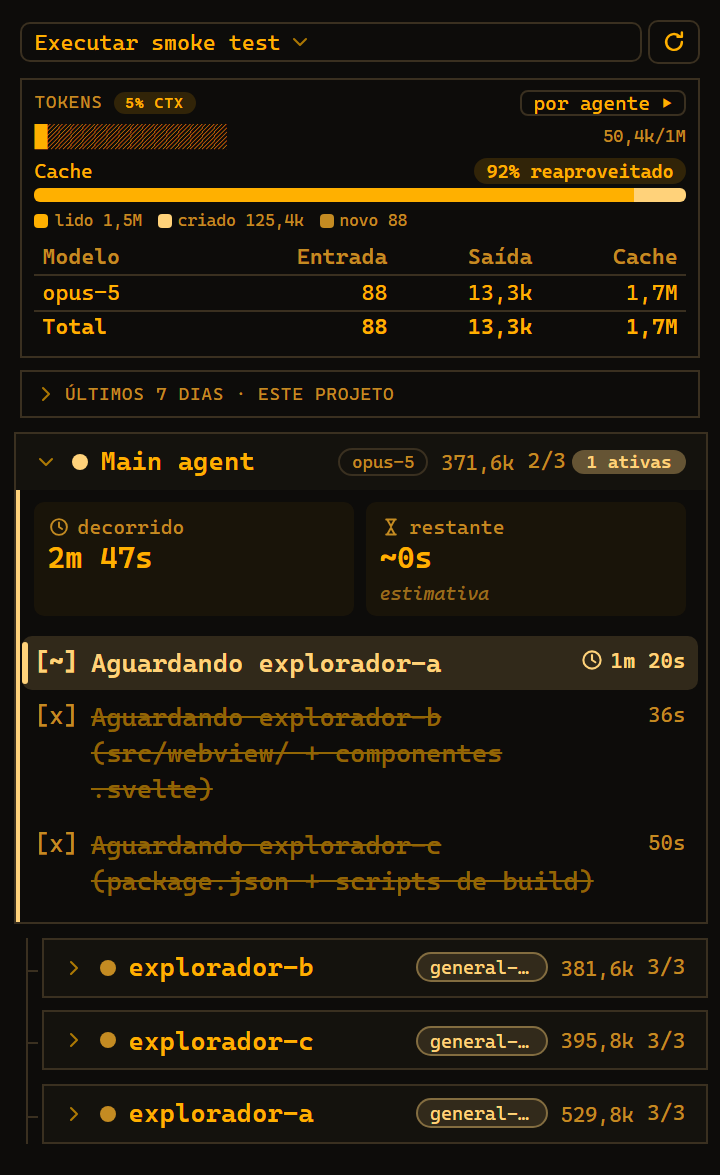
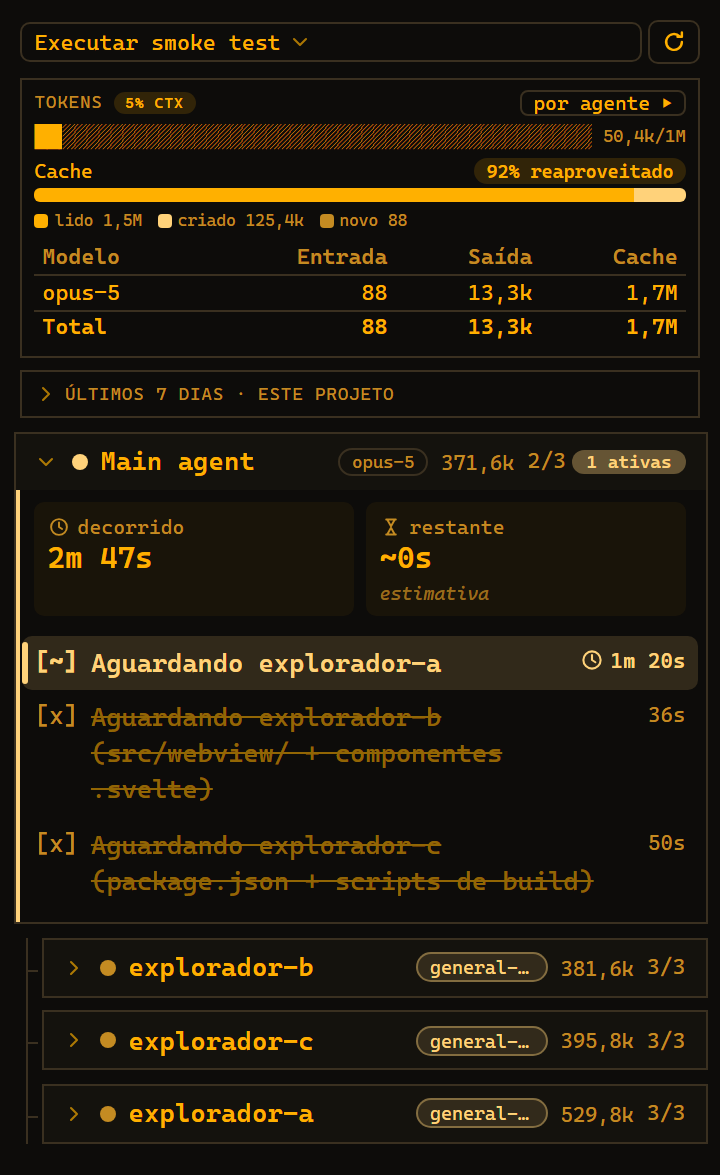
fix: correcoes da revisao da fase 2 dos temas
Clique no anel rola depois do card abrir, para as tarefas nao ficarem fora da tela. No Painel, as barras de uso passam a usar o azul forte e o selo o azul vivo, e o verde fica para sucesso. Sem textLink, o Painel cai em charts-blue: o focusBorder do JetBrains dava 1,64:1 no Darcula e no IntelliJ Light. A barra ASCII usa largura em porcentagem, porque cortada pelo painel estreito 42% e 93% pareciam iguais.

scripts/themeShots/checks.mts trava os tres casos de navegador no --compare. Baselines regravados: painel live, full e project; terminal live, full, alert e project. Classico e Papel nao mudam.

Changed region(s): [[0.0611, 0.0919, 0.825, 0.1532]]

diff --git a/src/webview/lib/Meter.svelte b/src/webview/lib/Meter.svelte
@@ -1,14 +1,20 @@
 <script lang="ts">
-  import { asciiBar, type ContextLevel } from '../format';
+  import type { ContextLevel } from '../format';
   import { todosStore } from '../stores.svelte';
 
   // percent em 0..100; level e o que contextLevel() devolveu.
   let { percent, level }: { percent: number; level: ContextLevel } = $props();
   let width = $derived(Math.min(100, Math.max(0, Math.round(percent))));
+
+  // Mais caracteres do que cabem em qualquer painel: a largura da parte cheia e em
+  // porcentagem e o resto e cortado. Um numero fixo de caracteres cortado pelo painel
+  // estreito comeria so a parte vazia, e 42% e 93% pareceriam iguais.
+  const FILLED = '█'.repeat(400);
+  const EMPTY = '░'.repeat(400);
 </script>
 
 {#if todosStore.traits.meter === 'ascii'}
-  <span class="ascii {level}" aria-hidden="true">{asciiBar(percent / 100, 16)}</span>
+  <span class="ascii {level}" aria-hidden="true"><span class="on" style="width: {width}%">{FILLED}</span><span class="off">{EMPTY}</span></span>
 {:else}
   <div class="ctx-bar" aria-hidden="true"><div class="ctx-fill {level}" style="width: {width}%"></div></div>
 {/if}
@@ -22,11 +28,13 @@
     overflow: hidden;
   }
   .ctx-fill { height: 100%; transition: width 200ms ease; }
-  .ctx-fill.ok { background: var(--ct-ok); }
+  .ctx-fill.ok { background: var(--ct-meter-ok); }
   .ctx-fill.warn { background: var(--ct-warn); }
   .ctx-fill.danger { background: var(--ct-danger); }
-  .ascii { font-family: var(--ct-mono); letter-spacing: -0.5px; white-space: pre; flex: 1; min-width: 0; overflow: hidden; }
-  .ascii.ok { color: var(--ct-ok); }
+  .ascii { display: flex; flex: 1; min-width: 0; overflow: hidden; font-family: var(--ct-mono); letter-spacing: -0.5px; white-space: pre; }
+  .on { flex: none; overflow: hidden; }
+  .off { flex: 1; min-width: 0; overflow: hidden; }
+  .ascii.ok { color: var(--ct-meter-ok-text); }
   .ascii.warn { color: var(--ct-warn); }
   .ascii.danger { color: var(--ct-danger); }
 </style>

diff --git a/src/webview/themes/painel.css b/src/webview/themes/painel.css
@@ -2,19 +2,22 @@
    qualquer tema do editor, em light e dark.
    - azul vivo em texto (--vscode-textLink-foreground) = o que esta rodando agora.
      --ct-run tambem pinta texto (TodoItem), e o focusBorder de alguns temas nao
-     foi feito para isso; ele fica so de reserva (o ThemeShim nao define textLink).
+     foi feito para isso. O ThemeShim nao define textLink, e o focusBorder dele e a
+     cor de foco do IDE: a reserva e charts-blue, a mesma do --ct-run do Classico.
    - azul vivo em borda e tinta de fundo (--vscode-focusBorder)
    - azul forte (--vscode-button-background) = consumo / preenchimentos
    - verde/laranja/vermelho ficam reservados a sucesso/alerta/erro. */
 :root[data-ct-theme="painel"] {
-  --ct-run: var(--vscode-textLink-foreground, var(--vscode-focusBorder));
-  --ct-link: var(--vscode-textLink-foreground, var(--vscode-focusBorder));
-  --ct-tone-explore: var(--vscode-textLink-foreground, var(--vscode-focusBorder));
-  --ct-tone-plan: var(--vscode-textLink-foreground, var(--vscode-focusBorder));
-  --ct-tone-general: var(--vscode-textLink-foreground, var(--vscode-focusBorder));
+  --ct-run: var(--vscode-textLink-foreground, var(--vscode-charts-blue));
+  --ct-link: var(--vscode-textLink-foreground, var(--vscode-charts-blue));
+  --ct-tone-explore: var(--vscode-textLink-foreground, var(--vscode-charts-blue));
+  --ct-tone-plan: var(--vscode-textLink-foreground, var(--vscode-charts-blue));
+  --ct-tone-general: var(--vscode-textLink-foreground, var(--vscode-charts-blue));
   --ct-accent: var(--vscode-focusBorder);
   --ct-agent-active: var(--vscode-focusBorder);
   --ct-info: var(--vscode-button-background);
+  --ct-meter-ok: var(--vscode-button-background);
+  --ct-meter-ok-text: var(--ct-run);
   --ct-track: color-mix(in srgb, var(--vscode-foreground) 14%, transparent);
   --ct-header-bg: color-mix(in srgb, var(--vscode-focusBorder) 7%, transparent);
   --ct-hover: color-mix(in srgb, var(--vscode-focusBorder) 12%, transparent);

diff --git a/tests/webview/format.test.ts b/tests/webview/format.test.ts
@@ -1,5 +1,5 @@
 import { describe, it, expect } from 'vitest';
-import { formatCompact, shortModel, modelBadge, contextLevel, cacheLevel, formatDuration, summarizeTiming, completedTaskDurations, agentTotalTokens, agentTypeTone, listStaleness, pendingSummary, limitLabelKey, formatResetTime, bridgeTextKey, statusGlyph, asciiBar, ringDash } from '../../src/webview/format';
+import { formatCompact, shortModel, modelBadge, contextLevel, cacheLevel, formatDuration, summarizeTiming, completedTaskDurations, agentTotalTokens, agentTypeTone, listStaleness, pendingSummary, limitLabelKey, formatResetTime, bridgeTextKey, statusGlyph, ringDash } from '../../src/webview/format';
 import type { Todo, TodoStatus, AgentUsage, PendingQuestion } from '../../src/types';
 
 describe('ringDash', () => {
@@ -10,13 +10,6 @@ describe('ringDash', () => {
     expect(ringDash(0, 0, C)).toBe(4);
   });
   it('nunca passa do circulo', () => { expect(ringDash(5, 4, C)).toBeCloseTo(C, 3); });
-});
-
-describe('asciiBar', () => {
-  it.each([
-    [0, 10, '░░░░░░░░░░'], [1, 10, '██████████'], [0.5, 10, '█████░░░░░'],
-    [0.71, 18, '█████████████░░░░░'], [1.4, 4, '████'], [-1, 4, '░░░░'],
-  ])('asciiBar(%d, %d)', (pct, width, out) => { expect(asciiBar(pct, width)).toBe(out); });
 });
 
 describe('statusGlyph', () => {

diff --git a/src/webview/lib/AgentSection.svelte b/src/webview/lib/AgentSection.svelte
@@ -42,14 +42,24 @@
   let title = $derived(agent.name);
 
   let sectionEl = $state<HTMLElement | null>(null);
+  // Card recolhido ainda vai crescer: rolar agora mediria so o cabecalho e deixaria
+  // as tarefas fora da tela. Nesse caso a rolagem espera o fim do slide.
+  let scrollWhenOpen = false;
+  function scrollToCard(): void {
+    sectionEl?.scrollIntoView({ block: 'nearest', behavior: 'smooth' });
+  }
   // Zerar o pedido e obrigatorio: este effect roda de novo a cada snapshot,
   // porque a prop `agent` muda de identidade. Com o pedido ainda de pe, o card
   // reabriria e a tela rolaria a cada atualizacao.
   $effect(() => {
     if (todosStore.focus !== agent.agentId) return;
     todosStore.focus = null;
-    expanded = true;
-    sectionEl?.scrollIntoView({ block: 'nearest', behavior: 'smooth' });
+    if (expanded) {
+      scrollToCard();
+    } else {
+      scrollWhenOpen = true;
+      expanded = true;
+    }
   });
 </script>
 
@@ -98,7 +108,7 @@
         {/if}
       </div>
     {/if}
-    <ul class="list" transition:slide={{ duration: 180 }}>
+    <ul class="list" transition:slide={{ duration: 180 }} onintroend={() => { if (scrollWhenOpen) { scrollWhenOpen = false; scrollToCard(); } }}>
       {#each agent.todos as todo, i (i)}
         <TodoItem {todo} completedMs={durations[i]} sessionId={agent.sessionId} agentId={agent.agentId} />
       {/each}

diff --git a/tests/webview/themeTokens.test.ts b/tests/webview/themeTokens.test.ts
@@ -26,6 +26,17 @@ describe('componentes so usam tokens --ct-*', () => {
   });
 });
 
+describe('tema Painel', () => {
+  // O ThemeShim nao define textLink, e focusBorder vem do foco do IDE: no Darcula
+  // e no IntelliJ Light da 1,64:1 sobre o fundo, ilegivel para a task em andamento.
+  it('token que pinta texto nao cai em focusBorder', () => {
+    const css = fs.readFileSync(path.join(THEMES, 'painel.css'), 'utf8').replace(/\/\*[\s\S]*?\*\//g, '');
+    const textTokens = [...css.matchAll(/--(ct-(?:run|link|tone-[\w-]+))\s*:\s*([^;]+);/g)];
+    expect(textTokens.length).toBeGreaterThanOrEqual(5);
+    for (const [, name, value] of textTokens) expect(value, name).not.toContain('focusBorder');
+  });
+});
+
 describe('arquivos de tema', () => {
   it('so declaram custom properties nos seletores permitidos', () => {
     const themeFiles = fs.readdirSync(THEMES).filter((f) => f.endsWith('.css') && !['tokens.css', 'index.css'].includes(f));

diff --git a/src/webview/format.ts b/src/webview/format.ts
@@ -267,12 +267,6 @@ export function statusGlyph(status: TodoStatus): string {
   return status === 'completed' ? '[x]' : status === 'in_progress' ? '[~]' : '[ ]';
 }
 
-// Barra em texto, para temas com meter: 'ascii'. pct em 0..1.
-export function asciiBar(pct: number, width: number): string {
-  const filled = Math.round(Math.min(1, Math.max(0, pct)) * width);
-  return '█'.repeat(filled) + '░'.repeat(width - filled);
-}
-
 // Comprimento do arco do anel de progresso. Minimo de 4px: um agente sem nada
 // concluido ainda precisa de um traco que mostre onde o anel comeca.
 export function ringDash(done: number, total: number, circumference: number): number {

diff --git a/src/webview/themes/tokens.css b/src/webview/themes/tokens.css
@@ -32,6 +32,10 @@
   --ct-link: var(--vscode-textLink-foreground, var(--ct-accent));
   --ct-ok: var(--vscode-charts-green, var(--vscode-testing-iconPassed, #4caf50));
   --ct-done: var(--ct-ok);
+  /* Barra de uso em nivel normal, e o selo dela. Tema que separa consumo de sucesso
+     redefine os dois; o resto acompanha --ct-ok. */
+  --ct-meter-ok: var(--ct-ok);
+  --ct-meter-ok-text: var(--ct-ok);
   --ct-run: var(--vscode-charts-blue, var(--vscode-progressBar-background, #0e70c0));
   --ct-info: var(--vscode-charts-blue);
   --ct-warn: var(--vscode-charts-yellow);

diff --git a/src/webview/lib/UsageTable.svelte b/src/webview/lib/UsageTable.svelte
@@ -192,8 +192,8 @@
     font-weight: 600;
   }
   .ctx-badge.ok {
-    color: var(--ct-ok);
-    background: color-mix(in srgb, var(--ct-ok) 15%, transparent);
+    color: var(--ct-meter-ok-text);
+    background: color-mix(in srgb, var(--ct-meter-ok-text) 15%, transparent);
   }
   .ctx-badge.warn {
     color: var(--ct-warn);

diff --git a/docs/plans/2026-11-02-temas.md b/docs/plans/2026-11-02-temas.md
@@ -65,7 +65,8 @@
 | `src/i18n/messages.ts` | Nomes e descrições dos temas, placeholder, nota de HC, rótulos da faixa e dos medidores | 1–3 |
 | `jetbrains/.../ThemeChoice.kt` (novo) | Lista, padrão, leitura e gravação em `PropertiesComponent`; `ThemeChoiceListener` | 1 |
 | `jetbrains/.../MessageRouter.kt`, `ClaudeTodosToolWindowFactory.kt`, `NotifyMessages.kt` | `appearance` no `ready`; ação "Tema…" | 1 |
-| `src/webview/format.ts` | `statusGlyph`, `asciiBar`, `ringDash`, `todoSegments`, `usageHeadline` | 2–3 |
+| `src/webview/format.ts` | `statusGlyph`, `ringDash`, `todoSegments`, `usageHeadline` | 2–3 |
+| `scripts/themeShots/checks.mts` (novo) | Comportamento que imagem fixa não prova: clique no anel com viewport baixa, azul de consumo, barra ASCII em painel estreito. Roda no `--compare` | 2 |
 | `src/webview/lib/Meter.svelte` (novo) | Barra de contexto e de limite (CSS ou ASCII) | 2 |
 | `src/webview/lib/AgentStrip.svelte` (novo) | Faixa de agentes (anéis ou LEDs) | 2–3 |
 | `src/webview/lib/UsageGauges.svelte` (novo) | Medidores no topo | 3 |
@@ -1922,6 +1923,11 @@ Em `UsageTable.svelte`, troque as duas barras:
 
 Remova de `UsageTable.svelte` as regras `.ctx-bar` e `.ctx-fill`, que foram para o `Meter`.
 
+> **Corrigido na revisão da fase 2.** Os 16 caracteres fixos eram cortados pelo painel estreito, e o corte comia só a
+> parte vazia: a 240 px, 42% e 93% pareciam iguais. O `Meter` passou a usar uma parte cheia com largura em porcentagem
+> e uma vazia que ocupa o resto, as duas cortadas, e `asciiBar` saiu. O nível normal usa `--ct-meter-ok`, derivado de
+> `--ct-ok`. `scripts/themeShots/checks.mts` trava a proporção de 360 a 240 px.
+
 - [ ] **Step 4: Verificar**
 
 Run: `npm test && npm run check:svelte && npm run shots -- --compare`
@@ -2117,6 +2123,9 @@ Em `AgentSection.svelte`, no script:
 
 E `bind:this={sectionEl}` no `<section>`. Isso não muda pixels; confirme com os screenshots no passo 7.
 
+> **Corrigido na revisão da fase 2.** Rolar logo depois de `expanded = true` mede o card ainda recolhido e deixa as
+> tarefas fora da tela. Com o card recolhido, a rolagem espera o `onintroend` do `ul.list`.
+
 - [ ] **Step 5: Criar `AgentStrip.svelte`**
 
 ```svelte
@@ -2240,6 +2249,10 @@ git commit -m "feat: faixa de agentes em aneis que foca o card do agente"
 ```
 
 `index.css`: `@import './painel.css';`.
+
+> **Corrigido na revisão da fase 2.** A reserva de `textLink` virou `--vscode-charts-blue`: no JetBrains o `focusBorder`
+> é a cor de foco do IDE e dava 1,64:1 no Darcula e no IntelliJ Light. E as barras de uso não usavam o azul forte: agora
+> `--ct-meter-ok` é `--vscode-button-background`, e `--ct-meter-ok-text`, usado no selo, é `--ct-run`.
 
 - [ ] **Step 2: Verificar**
 

diff --git a/docs/specs/2026-11-02-temas-design.md b/docs/specs/2026-11-02-temas-design.md
@@ -68,11 +68,13 @@ via JCEF, demo do site):
 7. **Traços por tema (`ThemeTraits`), só os que CSS não resolve.** Quatro: `glyphs` (`svg` | `text`), `meter`
    (`bar` | `ascii`), `agentStrip` (`none` | `rings` | `leds`), `usageSummary` (`none` | `gauges`). Cada traço entra
    na fase do primeiro tema que precisa dele, não antes.
-8. **O Painel deriva as cores do editor.** "Azul vivo" em texto = `--vscode-textLink-foreground`, com
-   `--vscode-focusBorder` de reserva, porque a cor de "rodando agora" também pinta texto e o `focusBorder` de alguns
-   temas não foi feito para isso; em bordas e tintas de fundo, `--vscode-focusBorder`. "Azul forte" =
-   `--vscode-button-background`; trilhas = `color-mix` do foreground com o fundo. Assim ele funciona com qualquer tema
-   do editor (Dracula, One Dark, Light Modern) sem paleta própria, e o light não precisa de hex à parte.
+8. **O Painel deriva as cores do editor.** "Azul vivo" em texto = `--vscode-textLink-foreground`, porque a cor de
+   "rodando agora" também pinta texto e o `focusBorder` de alguns temas não foi feito para isso. A reserva é
+   `--vscode-charts-blue`: o `ThemeShim` não define `textLink`, e o `focusBorder` dele é a cor de foco do IDE, com 1,64:1
+   sobre o fundo no Darcula e no IntelliJ Light. Em bordas e tintas de fundo, `--vscode-focusBorder`. "Azul forte" =
+   `--vscode-button-background`, que pinta as barras de uso em nível normal por `--ct-meter-ok`; trilhas = `color-mix` do
+   foreground com o fundo. Assim ele funciona com qualquer tema do editor (Dracula, One Dark, Light Modern) sem paleta
+   própria, e o light não precisa de hex à parte.
 9. **Contraste é testado, não julgado no olho.** Para os temas com paleta própria, um teste lê os tokens de cada bloco
    e exige WCAG 2.x: texto principal ≥ 7:1, texto secundário ≥ 4.5:1, cores de status sobre o fundo ≥ 3:1. Se um par
    falha, quem muda é a cor, nunca o piso (a mesma regra de `tests/site/landingContrast.test.ts`). Outro teste exige
